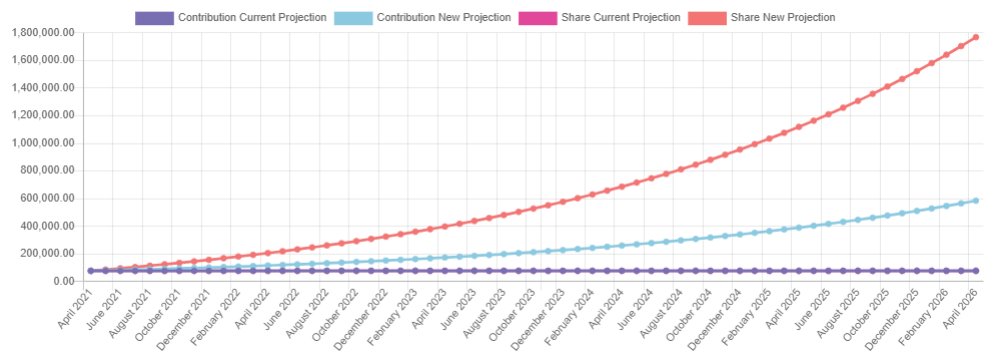
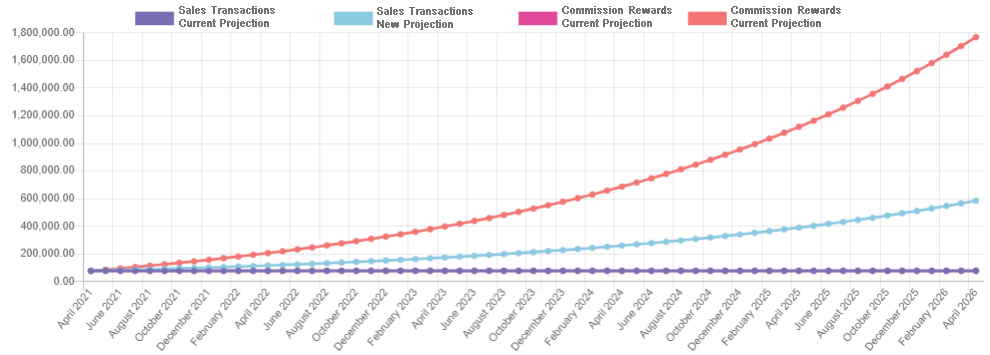
update

diff --git a/resources/views/livewire/page/siskop/report/member-summary.blade.php b/resources/views/livewire/page/siskop/report/member-summary.blade.php
@@ -5,7 +5,7 @@
 
                 <div class="mb-4 border-2 rounded-lg py-2 px-3 grid gap-2 lg:grid-cols-4 sm:grid-cols-4">
 
-                    <x-form.dropdown label="Member Summary" value=""  default="no">
+                    <x-form.dropdown label="Dealers Summary" value="table"  default="no">
                         <option value="1">Status</option>
                     </x-form.dropdown>
 
@@ -15,13 +15,13 @@
                     </x-form.dropdown>
                     <div class="{{$type == 'table' ? 'hidden' : '' }}">
                         <x-form.dropdown label="Data" value="data"  default="no">
-                            <option value="Contribution">Contribution</option>
-                            <option value="Share">Share</option>
+                            <option value="Contribution">Sales Transactions</option>
+                            <option value="Share">Commission Rewards</option>
                         </x-form.dropdown>
                     </div>
                 </div>
                 <div class="flex justify-end printHide">
-                    <x-general.button.icon href="#" target="" label="Print" livewire="" color="indigo" >
+                    <x-general.button.icon href="#" target="" label="Print" livewire="" color="yellow" >
                         <x-heroicon-o-printer class="-ml-0.5 mr-2 h-4 w-4" />
                     </x-general.button.icon>
                 </div>
@@ -30,8 +30,8 @@
                         <x-slot name="thead">
                             <x-general.table-header class="text-left" value="Description" sort="" livewire="" />
                             <x-general.table-header class="text-right" value="Total Member" sort="" livewire="" />
-                            <x-general.table-header class="text-right" value="Total Contribution (RM)" sort="" livewire="" />
-                            <x-general.table-header class="text-right" value="Total Share (RM)" sort="" livewire="" />
+                            <x-general.table-header class="text-right" value="Total Sales Transactions (RM)" sort="" livewire="" />
+                            <x-general.table-header class="text-right" value="Total Commission Rewards (RM)" sort="" livewire="" />
                         </x-slot>
 
                         <x-slot name="tbody">
@@ -76,7 +76,7 @@
                                 </x-general.table-body>
 
                                 <x-general.table-body colspan="" class="text-right font-medium text-gray-900">
-                                    <p class="text-xs">4,040</p>
+                                    <p class="text-xs">4,017</p>
                                 </x-general.table-body>
 
                                 <x-general.table-body colspan="" class="text-right font-medium text-gray-900">
@@ -106,7 +106,7 @@
 
     <!-- header -->
     <div class="absolute top-0 left-0 right-0 z-0">
-        <x-general.header bgimg="" title="Contribution & Share Projection" />
+        <x-general.header bgimg="" title="Dealers Summary" />
     </div>
 
 </div>

diff --git a/resources/views/livewire/page/siskop/report/contributionshare-projection.blade.php b/resources/views/livewire/page/siskop/report/contributionshare-projection.blade.php
@@ -3,7 +3,7 @@
         <div class="">
             <x-general.card class="bg-white shadow-lg px-5 py-3 mt-8">
                 <div class="mb-4 border-2 rounded-lg py-2 px-3 grid gap-2 lg:grid-cols-4 sm:grid-cols-4">
-                    <x-form.input label="New Member" type="text" value="{{$rate}}"  readonly/>
+                    <x-form.input label="New Dealers" type="text" value="{{$rate}}"  readonly/>
 
                     <x-form.dropdown label="Year" value="" default="no">
                         <option value="1">1</option>
@@ -24,11 +24,7 @@
                     </x-form.dropdown>
                 </div>
                 <div class="flex justify-end printHide">
-                    {{-- <x-general.button.icon href="#" target="" label="Generate" livewire="" color="indigo">
-                        <x-heroicon-o-cog class="-ml-0.5 mr-2 h-4 w-4" />
-                    </x-general.button.icon> --}}
-
-                    <x-general.button.icon href="#" target="" label="Print" livewire="" color="indigo" >
+                    <x-general.button.icon href="#" target="" label="Print" livewire="" color="yellow" >
                         <x-heroicon-o-printer class="-ml-0.5 mr-2 h-4 w-4" />
                     </x-general.button.icon>
                 </div>
@@ -45,7 +41,7 @@
 
     <!-- header -->
     <div class="absolute top-0 left-0 right-0 z-0">
-        <x-general.header bgimg="" title="Contribution & Share Projection" />
+        <x-general.header bgimg="" title="Sales Transactions & Commission Rewards Projection" />
     </div>
 
 </div>

diff --git a/resources/views/livewire/page/siskop/report/index.blade.php b/resources/views/livewire/page/siskop/report/index.blade.php
@@ -33,10 +33,10 @@
                                         <a href="{{route('siskop.report.contributionshare_projection')}}"
                                             class="text-sm text-gray-500 font-semibold py-2 px-4 inline-flex items-center w-full hover:text-yellow-400">
                                                 <x-heroicon-o-chart-pie  class=" w-4 h-4 mr-2" />
-                                        <span>Sales Transaction and Commission Rewards Projection</span>
+                                        <span>Sales Transactions & Commission Rewards Projection</span>
                                         </a>
                                         <a href="{{route('siskop.report.member_summary')}}"
-                                            class="text-sm text-gray-500 font-semibold py-2 px-4 inline-flex items-center w-full hover:text-yellow-400"">
+                                            class="text-sm text-gray-500 font-semibold py-2 px-4 inline-flex items-center w-full hover:text-yellow-400">
                                                 <x-heroicon-o-chart-pie  class=" w-4 h-4 mr-2" />
                                         <span>Dealers Summary</span>
                                         </a>

diff --git a/resources/views/livewire/page/siskop/report/list-position-contribution.blade.php b/resources/views/livewire/page/siskop/report/list-position-contribution.blade.php
@@ -13,11 +13,11 @@
                             </div>
                         </div>
                         <div class="mt-4">
-                            <x-general.button.icon href="#" target="" label="Excel" color="indigo" livewire="">
+                            <x-general.button.icon href="#" target="" label="Excel" color="yellow" livewire="">
                                 <x-heroicon-o-document-text class="-ml-0.5 mr-2 h-4 w-4" />
                             </x-general.button.icon>
 
-                            <x-general.button.icon href="#" target="_blank" label="PDF" color="indigo" livewire="">
+                            <x-general.button.icon href="#" target="_blank" label="PDF" color="yellow" livewire="">
                                 <x-heroicon-o-document-report class="-ml-0.5 mr-2 h-4 w-4" />
                             </x-general.button.icon>
                         </div>

diff --git a/app/Http/Livewire/Page/Siskop/Report/MemberSummary.php b/app/Http/Livewire/Page/Siskop/Report/MemberSummary.php
@@ -8,6 +8,7 @@ class MemberSummary extends Component
 {
 
     public $type  = 'chart';
+    public $table  = '1';
     public $data  = '';
 
     public function render()
